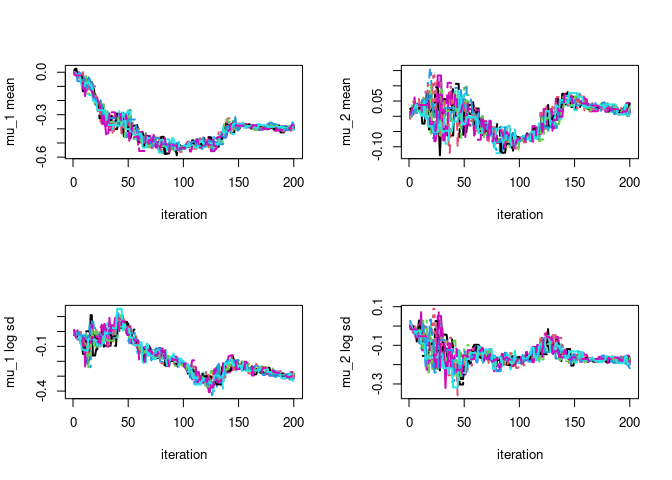
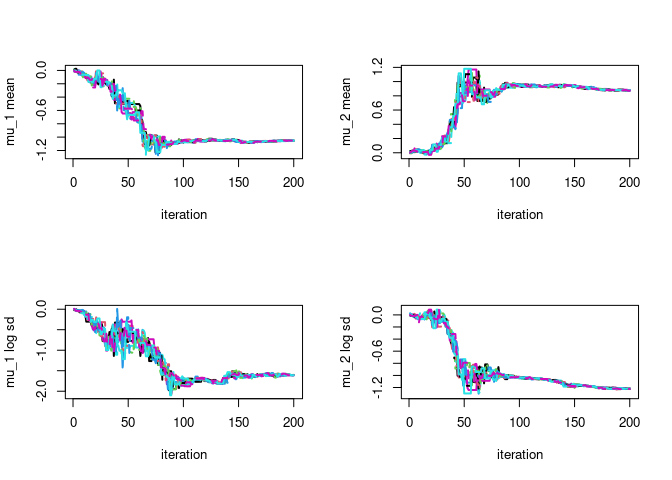
fixed issue with read me

diff --git a/README.md b/README.md
@@ -174,7 +174,9 @@ Divergence (maximize the ELBO) between Q and the likelihood\*prior
 vb <- DEVI(LogPostLike=LogPostLikeExample,
                   control_params=AlgoParamsDEVI(n_params=length(param_names_example),
                                      n_iter=200,
-                                     n_chains=12, return_trace = T),
+                                     n_samples_ELBO = 20,
+                                     n_chains=12,use_QMC = T,
+                                     return_trace = T),
                   data=dataExample,
                   param_names = param_names_example)
 #> initalizing chains...
@@ -195,19 +197,16 @@ vb <- DEVI(LogPostLike=LogPostLikeExample,
 #> iter 100/200
 #> iter 200/200
 #> Attemtping LRVB covariance correction.
-#> Warning in DEVI(LogPostLike = LogPostLikeExample, control_params =
-#> AlgoParamsDEVI(n_params = length(param_names_example), : LRVB correction failed,
-#> optimization did not reach the neighborhood of a local optima. Returning mean
-#> field approximation.
+#> LRVB correction was a success!
 
 
   # posterior means
-  message((round(vb$means,2)))
-#> -0.380.02
+  message(paste(round(vb$means,2)))
+#> -1.050.88
 
   # posterior covariance
-  message(round(vb$covariance,3))
-#> 0.54000.687
+  message(paste(round(vb$covariance,3)))
+#> 0.02000.02
         
 par(mfrow=c(2,2))
 
